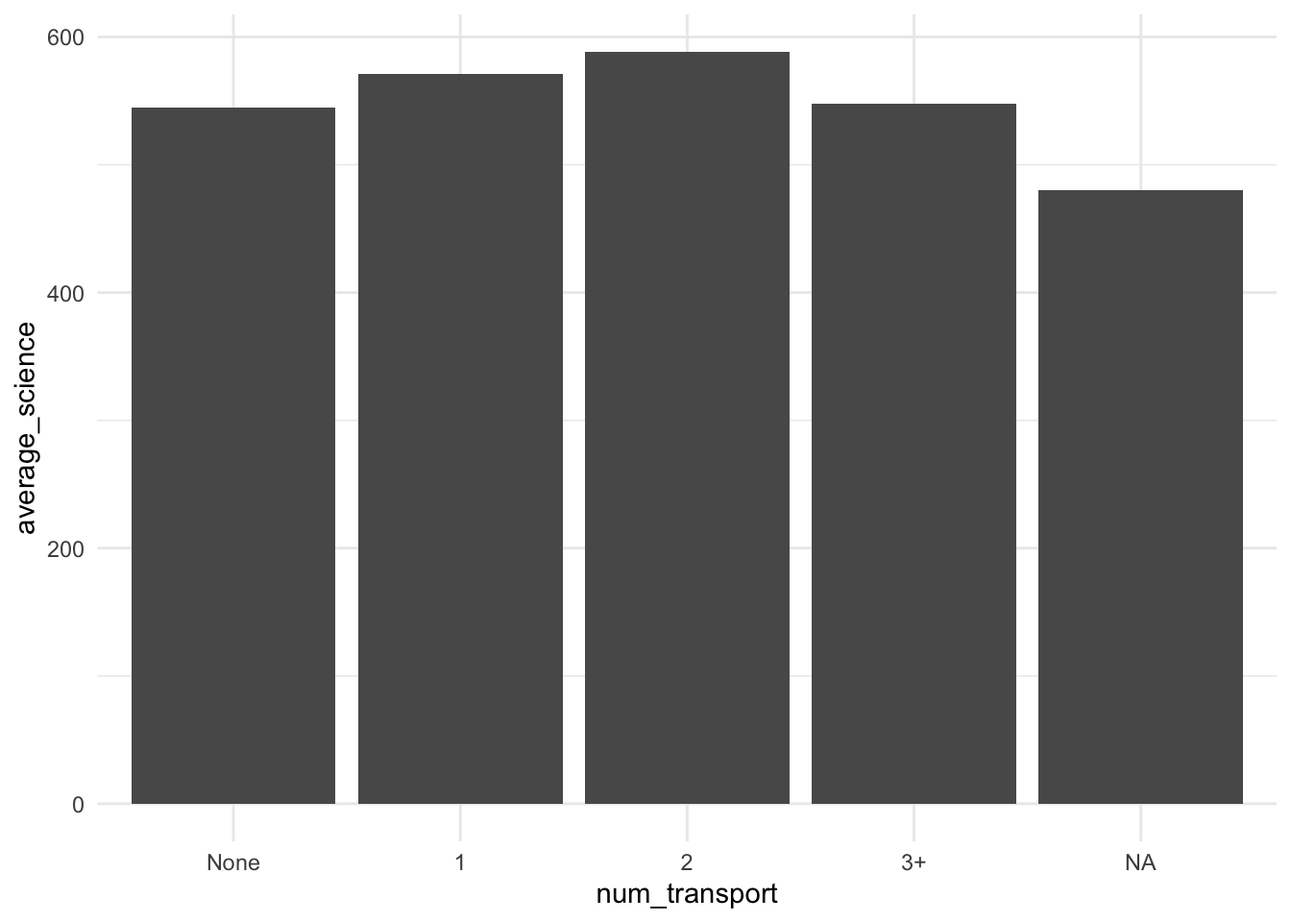
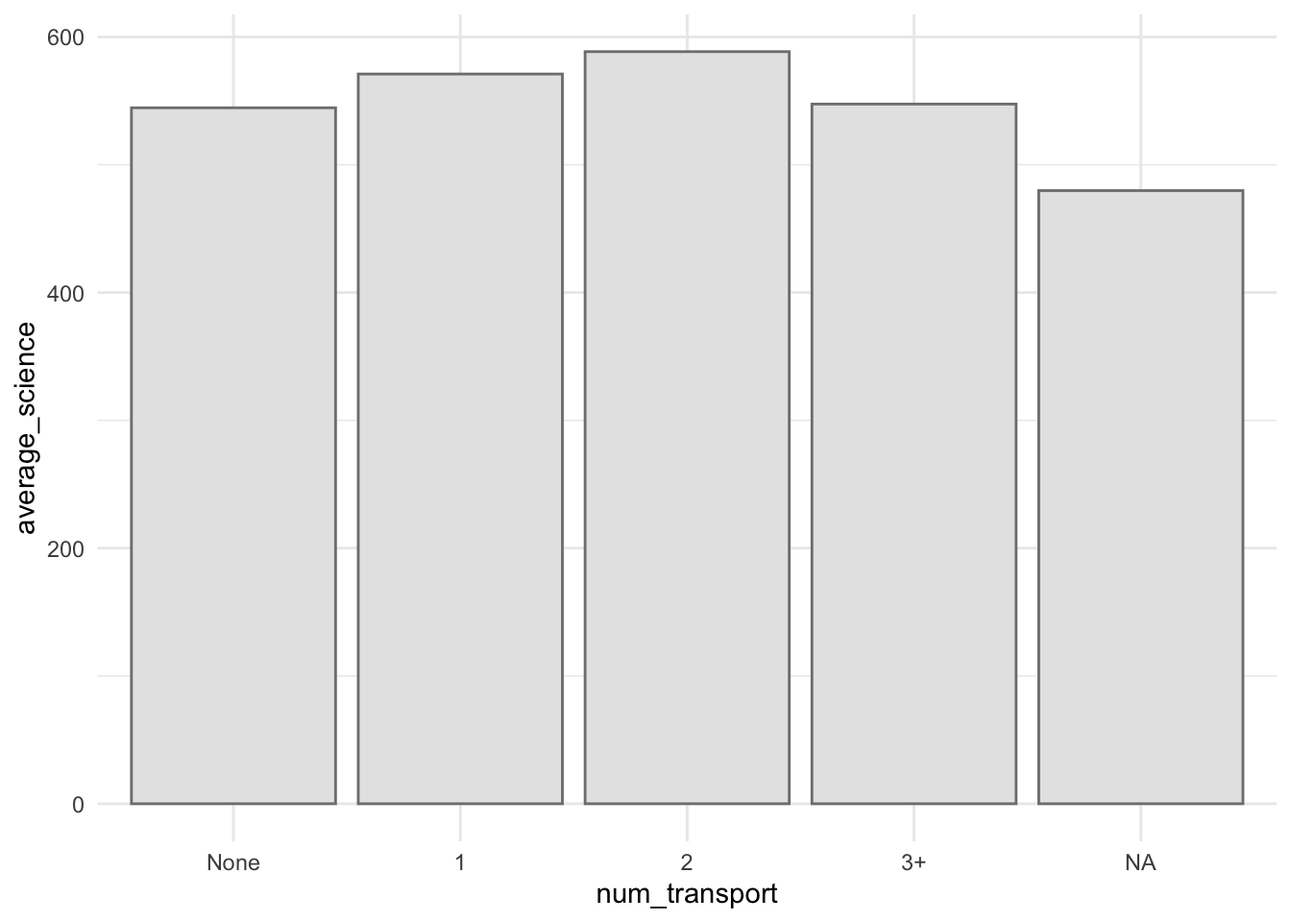
Take home Ex 1 Commit

diff --git a/_site/Take-home_Ex/Take-home_Ex1/Take-home_Ex1.html b/_site/Take-home_Ex/Take-home_Ex1/Take-home_Ex1.html
@@ -190,7 +190,7 @@ pre > code.sourceCode > span > a:first-child::before { text-decoration: underlin
   </ul></li>
   <li><a href="#data-preparation" id="toc-data-preparation" class="nav-link" data-scroll-target="#data-preparation">Data Preparation</a>
   <ul class="collapse">
-  <li><a href="#selecting-columns" id="toc-selecting-columns" class="nav-link" data-scroll-target="#selecting-columns">Selecting columns</a></li>
+  <li><a href="#variable-preparations" id="toc-variable-preparations" class="nav-link" data-scroll-target="#variable-preparations">Variable preparations</a></li>
   <li><a href="#overview" id="toc-overview" class="nav-link" data-scroll-target="#overview">Overview</a></li>
   </ul></li>
   <li><a href="#exploratory-data-analysis-eda" id="toc-exploratory-data-analysis-eda" class="nav-link" data-scroll-target="#exploratory-data-analysis-eda">Exploratory Data Analysis (EDA)</a>
@@ -280,8 +280,14 @@ pre > code.sourceCode > span > a:first-child::before { text-decoration: underlin
 </section>
 <section id="data-preparation" class="level2">
 <h2 class="anchored" data-anchor-id="data-preparation">Data Preparation</h2>
-<section id="selecting-columns" class="level3">
-<h3 class="anchored" data-anchor-id="selecting-columns">Selecting columns</h3>
+<section id="variable-preparations" class="level3">
+<h3 class="anchored" data-anchor-id="variable-preparations">Variable preparations</h3>
+<ul>
+<li><p>filtering the columns that will be used for further analysis</p></li>
+<li><p>rename the columns to a more understandable names</p></li>
+<li><p>recode the answers of questions to a more descriptive measures</p></li>
+<li><p>change the columns data type</p></li>
+</ul>
 <div class="cell">
 <div class="sourceCode cell-code" id="cb6"><pre class="sourceCode r code-with-copy"><code class="sourceCode r"><span id="cb6-1"><a href="#cb6-1" aria-hidden="true" tabindex="-1"></a>stu_qqq <span class="ot">&lt;-</span> stu_qqq_SG <span class="sc">%&gt;%</span></span>
 <span id="cb6-2"><a href="#cb6-2" aria-hidden="true" tabindex="-1"></a>  <span class="fu">select</span>(CNTSCHID,ST004D01T,PV1MATH,PV1SCIE,PV1READ,ST255Q01JA,ST251Q01JA,ST253Q01JA) <span class="sc">%&gt;%</span></span>
@@ -292,7 +298,7 @@ pre > code.sourceCode > span > a:first-child::before { text-decoration: underlin
 <span id="cb6-7"><a href="#cb6-7" aria-hidden="true" tabindex="-1"></a>           <span class="at">read =</span> <span class="st">"PV1READ"</span>,</span>
 <span id="cb6-8"><a href="#cb6-8" aria-hidden="true" tabindex="-1"></a>           <span class="at">num_book =</span> <span class="st">"ST255Q01JA"</span>,</span>
 <span id="cb6-9"><a href="#cb6-9" aria-hidden="true" tabindex="-1"></a>           <span class="at">num_transport =</span> <span class="st">"ST251Q01JA"</span>,</span>
-<span id="cb6-10"><a href="#cb6-10" aria-hidden="true" tabindex="-1"></a>           <span class="at">num_digital_devices =</span> ST253Q01JA)) <span class="sc">%&gt;%</span></span>
+<span id="cb6-10"><a href="#cb6-10" aria-hidden="true" tabindex="-1"></a>           <span class="at">num_digital_devices =</span> <span class="st">"ST253Q01JA"</span>)) <span class="sc">%&gt;%</span></span>
 <span id="cb6-11"><a href="#cb6-11" aria-hidden="true" tabindex="-1"></a>  <span class="fu">mutate</span>(<span class="at">gender =</span> <span class="fu">recode</span>(gender, </span>
 <span id="cb6-12"><a href="#cb6-12" aria-hidden="true" tabindex="-1"></a>                         <span class="st">"1"</span> <span class="ot">=</span> <span class="st">"Female"</span>, </span>
 <span id="cb6-13"><a href="#cb6-13" aria-hidden="true" tabindex="-1"></a>                         <span class="st">"2"</span> <span class="ot">=</span> <span class="st">"Male"</span>)) <span class="sc">%&gt;%</span></span>
@@ -351,21 +357,27 @@ $ num_digital_devices &lt;fct&gt; 6-10, 10+, 6-10, 5, 6-10, 6-10, 10+, 10+, 10+,
 </section>
 <section id="exploratory-data-analysis-eda" class="level2">
 <h2 class="anchored" data-anchor-id="exploratory-data-analysis-eda">Exploratory Data Analysis (EDA)</h2>
+<p>In this section 5 analysis will be performed to get insights and uncover truth of factors for singapore student perfomances.</p>
 <section id="gender" class="level3">
 <h3 class="anchored" data-anchor-id="gender">1. Gender</h3>
+<p>the first factor that we are going to look into is gender.</p>
 <div class="cell">
 <div class="sourceCode cell-code" id="cb9"><pre class="sourceCode r code-with-copy"><code class="sourceCode r"><span id="cb9-1"><a href="#cb9-1" aria-hidden="true" tabindex="-1"></a><span class="fu">ggplot</span>(<span class="at">data =</span> stu_qqq,</span>
 <span id="cb9-2"><a href="#cb9-2" aria-hidden="true" tabindex="-1"></a>       <span class="fu">aes</span>(<span class="at">x =</span> gender)) <span class="sc">+</span></span>
-<span id="cb9-3"><a href="#cb9-3" aria-hidden="true" tabindex="-1"></a>  <span class="fu">geom_bar</span>(<span class="at">width =</span> <span class="fl">0.5</span>)<span class="sc">+</span></span>
-<span id="cb9-4"><a href="#cb9-4" aria-hidden="true" tabindex="-1"></a>  <span class="fu">theme_minimal</span>()</span></code><button title="Copy to Clipboard" class="code-copy-button"><i class="bi"></i></button></pre></div>
+<span id="cb9-3"><a href="#cb9-3" aria-hidden="true" tabindex="-1"></a>  <span class="fu">geom_bar</span>(<span class="at">width =</span> <span class="fl">0.5</span>,</span>
+<span id="cb9-4"><a href="#cb9-4" aria-hidden="true" tabindex="-1"></a>           <span class="at">color =</span> <span class="st">"grey50"</span>,</span>
+<span id="cb9-5"><a href="#cb9-5" aria-hidden="true" tabindex="-1"></a>           <span class="at">fill =</span> <span class="st">"grey90"</span>)<span class="sc">+</span></span>
+<span id="cb9-6"><a href="#cb9-6" aria-hidden="true" tabindex="-1"></a>  <span class="fu">theme_minimal</span>()</span></code><button title="Copy to Clipboard" class="code-copy-button"><i class="bi"></i></button></pre></div>
 <div class="cell-output-display">
 <p><img src="Take-home_Ex1_files/figure-html/unnamed-chunk-8-1.png" class="img-fluid" width="672"></p>
 </div>
 </div>
+<p>from the distribution graph above can be seen that the questionnaire have similar number of male and female student.</p>
 <div class="tabset-margin-container"></div><div class="panel-tabset">
 <ul class="nav nav-tabs" role="tablist"><li class="nav-item" role="presentation"><a class="nav-link active" id="tabset-1-1-tab" data-bs-toggle="tab" data-bs-target="#tabset-1-1" role="tab" aria-controls="tabset-1-1" aria-selected="true">Math</a></li><li class="nav-item" role="presentation"><a class="nav-link" id="tabset-1-2-tab" data-bs-toggle="tab" data-bs-target="#tabset-1-2" role="tab" aria-controls="tabset-1-2" aria-selected="false">Science</a></li><li class="nav-item" role="presentation"><a class="nav-link" id="tabset-1-3-tab" data-bs-toggle="tab" data-bs-target="#tabset-1-3" role="tab" aria-controls="tabset-1-3" aria-selected="false">Reading</a></li></ul>
 <div class="tab-content">
 <div id="tabset-1-1" class="tab-pane active" role="tabpanel" aria-labelledby="tabset-1-1-tab">
+<p>from the graph below, can be seen that there are <strong>VERY SMALL</strong> differences between male and female science scores with male have a <strong>SLIGHTLY HIGHER</strong> average and median score</p>
 <div class="cell">
 <details>
 <summary>Show the code</summary>
@@ -413,6 +425,7 @@ $ num_digital_devices &lt;fct&gt; 6-10, 10+, 6-10, 5, 6-10, 6-10, 10+, 10+, 10+,
 </div>
 </div>
 <div id="tabset-1-2" class="tab-pane" role="tabpanel" aria-labelledby="tabset-1-2-tab">
+<p>from the graph below, can be seen that there are <strong>VERY SMALL</strong> differences between male and female science scores with male have a <strong>SLIGHTLY HIGHER</strong> average and median score</p>
 <div class="cell">
 <details>
 <summary>Show the code</summary>
@@ -460,6 +473,7 @@ $ num_digital_devices &lt;fct&gt; 6-10, 10+, 6-10, 5, 6-10, 6-10, 10+, 10+, 10+,
 </div>
 </div>
 <div id="tabset-1-3" class="tab-pane" role="tabpanel" aria-labelledby="tabset-1-3-tab">
+<p>from the graph below, can be seen that there are <strong>VERY SMALL</strong> differences between male and female reading scores with male have a <strong>SLIGHTLY LOWER</strong> average and median score</p>
 <div class="cell">
 <details>
 <summary>Show the code</summary>
@@ -508,6 +522,7 @@ $ num_digital_devices &lt;fct&gt; 6-10, 10+, 6-10, 5, 6-10, 6-10, 10+, 10+, 10+,
 </div>
 </div>
 </div>
+<p>Overall, can be concluded that student’s performances are <strong>EQUAL</strong> no matter the gender is.</p>
 </section>
 <section id="school" class="level3">
 <h3 class="anchored" data-anchor-id="school">2. School</h3>
@@ -536,12 +551,12 @@ $ num_digital_devices &lt;fct&gt; 6-10, 10+, 6-10, 5, 6-10, 6-10, 10+, 10+, 10+,
 <div class="sourceCode cell-code" id="cb16"><pre class="sourceCode r code-with-copy"><code class="sourceCode r"><span id="cb16-1"><a href="#cb16-1" aria-hidden="true" tabindex="-1"></a>p1 <span class="ot">&lt;-</span> <span class="fu">ggplot</span>(<span class="at">data =</span> stu_qqq_sch,</span>
 <span id="cb16-2"><a href="#cb16-2" aria-hidden="true" tabindex="-1"></a>       <span class="fu">aes</span>(<span class="at">y =</span> average_math_diff)) <span class="sc">+</span></span>
 <span id="cb16-3"><a href="#cb16-3" aria-hidden="true" tabindex="-1"></a>  <span class="fu">geom_boxplot</span>(<span class="at">width =</span> <span class="fl">0.1</span>) <span class="sc">+</span></span>
-<span id="cb16-4"><a href="#cb16-4" aria-hidden="true" tabindex="-1"></a>  <span class="fu">stat_summary</span>(<span class="fu">aes</span>(<span class="at">x =</span> <span class="dv">0</span>),</span>
-<span id="cb16-5"><a href="#cb16-5" aria-hidden="true" tabindex="-1"></a>               <span class="at">geom =</span> <span class="st">"point"</span>,       </span>
-<span id="cb16-6"><a href="#cb16-6" aria-hidden="true" tabindex="-1"></a>               <span class="at">fun.y =</span><span class="st">"mean"</span>,         </span>
-<span id="cb16-7"><a href="#cb16-7" aria-hidden="true" tabindex="-1"></a>               <span class="at">colour =</span><span class="st">"red"</span>, </span>
-<span id="cb16-8"><a href="#cb16-8" aria-hidden="true" tabindex="-1"></a>               <span class="at">size=</span><span class="dv">1</span>) <span class="sc">+</span></span>
-<span id="cb16-9"><a href="#cb16-9" aria-hidden="true" tabindex="-1"></a>  <span class="fu">xlim</span>(<span class="fu">c</span>(<span class="sc">-</span><span class="fl">0.5</span>,<span class="fl">0.5</span>)) <span class="sc">+</span></span>
+<span id="cb16-4"><a href="#cb16-4" aria-hidden="true" tabindex="-1"></a>  <span class="fu">stat_boxplot</span>(<span class="at">geom =</span> <span class="st">"errorbar"</span>, <span class="at">width =</span> <span class="fl">0.05</span>) <span class="sc">+</span></span>
+<span id="cb16-5"><a href="#cb16-5" aria-hidden="true" tabindex="-1"></a>  <span class="fu">stat_summary</span>(<span class="fu">aes</span>(<span class="at">x =</span> <span class="dv">0</span>),</span>
+<span id="cb16-6"><a href="#cb16-6" aria-hidden="true" tabindex="-1"></a>               <span class="at">geom =</span> <span class="st">"point"</span>,       </span>
+<span id="cb16-7"><a href="#cb16-7" aria-hidden="true" tabindex="-1"></a>               <span class="at">fun.y =</span><span class="st">"mean"</span>,         </span>
+<span id="cb16-8"><a href="#cb16-8" aria-hidden="true" tabindex="-1"></a>               <span class="at">colour =</span><span class="st">"red"</span>, </span>
+<span id="cb16-9"><a href="#cb16-9" aria-hidden="true" tabindex="-1"></a>               <span class="at">size=</span><span class="dv">1</span>) <span class="sc">+</span></span>
 <span id="cb16-10"><a href="#cb16-10" aria-hidden="true" tabindex="-1"></a>  <span class="fu">ylim</span>(<span class="fu">c</span>(<span class="dv">0</span>,<span class="dv">220</span>)) <span class="sc">+</span></span>
 <span id="cb16-11"><a href="#cb16-11" aria-hidden="true" tabindex="-1"></a>  <span class="fu">scale_x_continuous</span>(<span class="cn">NULL</span>, <span class="at">breaks =</span> <span class="cn">NULL</span>) <span class="sc">+</span></span>
 <span id="cb16-12"><a href="#cb16-12" aria-hidden="true" tabindex="-1"></a>  <span class="fu">theme_minimal</span>()</span>
@@ -549,12 +564,12 @@ $ num_digital_devices &lt;fct&gt; 6-10, 10+, 6-10, 5, 6-10, 6-10, 10+, 10+, 10+,
 <span id="cb16-14"><a href="#cb16-14" aria-hidden="true" tabindex="-1"></a>p2 <span class="ot">&lt;-</span> <span class="fu">ggplot</span>(<span class="at">data =</span> stu_qqq_sch,</span>
 <span id="cb16-15"><a href="#cb16-15" aria-hidden="true" tabindex="-1"></a>       <span class="fu">aes</span>(<span class="at">y =</span> average_science_diff)) <span class="sc">+</span></span>
 <span id="cb16-16"><a href="#cb16-16" aria-hidden="true" tabindex="-1"></a>  <span class="fu">geom_boxplot</span>(<span class="at">width =</span> <span class="fl">0.1</span>) <span class="sc">+</span></span>
-<span id="cb16-17"><a href="#cb16-17" aria-hidden="true" tabindex="-1"></a>  <span class="fu">stat_summary</span>(<span class="fu">aes</span>(<span class="at">x =</span> <span class="dv">0</span>),</span>
-<span id="cb16-18"><a href="#cb16-18" aria-hidden="true" tabindex="-1"></a>               <span class="at">geom =</span> <span class="st">"point"</span>,       </span>
-<span id="cb16-19"><a href="#cb16-19" aria-hidden="true" tabindex="-1"></a>               <span class="at">fun.y =</span><span class="st">"mean"</span>,         </span>
-<span id="cb16-20"><a href="#cb16-20" aria-hidden="true" tabindex="-1"></a>               <span class="at">colour =</span><span class="st">"red"</span>, </span>
-<span id="cb16-21"><a href="#cb16-21" aria-hidden="true" tabindex="-1"></a>               <span class="at">size=</span><span class="dv">1</span>) <span class="sc">+</span></span>
-<span id="cb16-22"><a href="#cb16-22" aria-hidden="true" tabindex="-1"></a>  <span class="fu">xlim</span>(<span class="fu">c</span>(<span class="sc">-</span><span class="fl">0.5</span>,<span class="fl">0.5</span>)) <span class="sc">+</span></span>
+<span id="cb16-17"><a href="#cb16-17" aria-hidden="true" tabindex="-1"></a>  <span class="fu">stat_boxplot</span>(<span class="at">geom =</span> <span class="st">"errorbar"</span>, <span class="at">width =</span> <span class="fl">0.05</span>) <span class="sc">+</span></span>
+<span id="cb16-18"><a href="#cb16-18" aria-hidden="true" tabindex="-1"></a>  <span class="fu">stat_summary</span>(<span class="fu">aes</span>(<span class="at">x =</span> <span class="dv">0</span>),</span>
+<span id="cb16-19"><a href="#cb16-19" aria-hidden="true" tabindex="-1"></a>               <span class="at">geom =</span> <span class="st">"point"</span>,       </span>
+<span id="cb16-20"><a href="#cb16-20" aria-hidden="true" tabindex="-1"></a>               <span class="at">fun.y =</span><span class="st">"mean"</span>,         </span>
+<span id="cb16-21"><a href="#cb16-21" aria-hidden="true" tabindex="-1"></a>               <span class="at">colour =</span><span class="st">"red"</span>, </span>
+<span id="cb16-22"><a href="#cb16-22" aria-hidden="true" tabindex="-1"></a>               <span class="at">size=</span><span class="dv">1</span>) <span class="sc">+</span></span>
 <span id="cb16-23"><a href="#cb16-23" aria-hidden="true" tabindex="-1"></a>  <span class="fu">ylim</span>(<span class="fu">c</span>(<span class="dv">0</span>,<span class="dv">220</span>)) <span class="sc">+</span></span>
 <span id="cb16-24"><a href="#cb16-24" aria-hidden="true" tabindex="-1"></a>  <span class="fu">scale_x_continuous</span>(<span class="cn">NULL</span>, <span class="at">breaks =</span> <span class="cn">NULL</span>) <span class="sc">+</span></span>
 <span id="cb16-25"><a href="#cb16-25" aria-hidden="true" tabindex="-1"></a>  <span class="fu">theme_minimal</span>()</span>
@@ -562,12 +577,12 @@ $ num_digital_devices &lt;fct&gt; 6-10, 10+, 6-10, 5, 6-10, 6-10, 10+, 10+, 10+,
 <span id="cb16-27"><a href="#cb16-27" aria-hidden="true" tabindex="-1"></a>p3 <span class="ot">&lt;-</span> <span class="fu">ggplot</span>(<span class="at">data =</span> stu_qqq_sch,</span>
 <span id="cb16-28"><a href="#cb16-28" aria-hidden="true" tabindex="-1"></a>       <span class="fu">aes</span>(<span class="at">y =</span> average_read_diff)) <span class="sc">+</span></span>
 <span id="cb16-29"><a href="#cb16-29" aria-hidden="true" tabindex="-1"></a>  <span class="fu">geom_boxplot</span>(<span class="at">width =</span> <span class="fl">0.1</span>) <span class="sc">+</span></span>
-<span id="cb16-30"><a href="#cb16-30" aria-hidden="true" tabindex="-1"></a>  <span class="fu">stat_summary</span>(<span class="fu">aes</span>(<span class="at">x =</span> <span class="dv">0</span>),</span>
-<span id="cb16-31"><a href="#cb16-31" aria-hidden="true" tabindex="-1"></a>               <span class="at">geom =</span> <span class="st">"point"</span>,       </span>
-<span id="cb16-32"><a href="#cb16-32" aria-hidden="true" tabindex="-1"></a>               <span class="at">fun.y =</span><span class="st">"mean"</span>,         </span>
-<span id="cb16-33"><a href="#cb16-33" aria-hidden="true" tabindex="-1"></a>               <span class="at">colour =</span><span class="st">"red"</span>, </span>
-<span id="cb16-34"><a href="#cb16-34" aria-hidden="true" tabindex="-1"></a>               <span class="at">size=</span><span class="dv">1</span>) <span class="sc">+</span></span>
-<span id="cb16-35"><a href="#cb16-35" aria-hidden="true" tabindex="-1"></a>  <span class="fu">xlim</span>(<span class="fu">c</span>(<span class="sc">-</span><span class="fl">0.5</span>,<span class="fl">0.5</span>)) <span class="sc">+</span></span>
+<span id="cb16-30"><a href="#cb16-30" aria-hidden="true" tabindex="-1"></a>  <span class="fu">stat_boxplot</span>(<span class="at">geom =</span> <span class="st">"errorbar"</span>, <span class="at">width =</span> <span class="fl">0.05</span>) <span class="sc">+</span></span>
+<span id="cb16-31"><a href="#cb16-31" aria-hidden="true" tabindex="-1"></a>  <span class="fu">stat_summary</span>(<span class="fu">aes</span>(<span class="at">x =</span> <span class="dv">0</span>),</span>
+<span id="cb16-32"><a href="#cb16-32" aria-hidden="true" tabindex="-1"></a>               <span class="at">geom =</span> <span class="st">"point"</span>,       </span>
+<span id="cb16-33"><a href="#cb16-33" aria-hidden="true" tabindex="-1"></a>               <span class="at">fun.y =</span><span class="st">"mean"</span>,         </span>
+<span id="cb16-34"><a href="#cb16-34" aria-hidden="true" tabindex="-1"></a>               <span class="at">colour =</span><span class="st">"red"</span>, </span>
+<span id="cb16-35"><a href="#cb16-35" aria-hidden="true" tabindex="-1"></a>               <span class="at">size=</span><span class="dv">1</span>) <span class="sc">+</span></span>
 <span id="cb16-36"><a href="#cb16-36" aria-hidden="true" tabindex="-1"></a>  <span class="fu">ylim</span>(<span class="fu">c</span>(<span class="dv">0</span>,<span class="dv">220</span>)) <span class="sc">+</span></span>
 <span id="cb16-37"><a href="#cb16-37" aria-hidden="true" tabindex="-1"></a>  <span class="fu">scale_x_continuous</span>(<span class="cn">NULL</span>, <span class="at">breaks =</span> <span class="cn">NULL</span>) <span class="sc">+</span></span>
 <span id="cb16-38"><a href="#cb16-38" aria-hidden="true" tabindex="-1"></a>  <span class="fu">theme_minimal</span>()</span>
@@ -586,8 +601,9 @@ $ num_digital_devices &lt;fct&gt; 6-10, 10+, 6-10, 5, 6-10, 6-10, 10+, 10+, 10+,
 <summary>Show the code</summary>
 <div class="sourceCode cell-code" id="cb17"><pre class="sourceCode r code-with-copy"><code class="sourceCode r"><span id="cb17-1"><a href="#cb17-1" aria-hidden="true" tabindex="-1"></a><span class="fu">ggplot</span>(<span class="at">data =</span> stu_qqq,</span>
 <span id="cb17-2"><a href="#cb17-2" aria-hidden="true" tabindex="-1"></a>       <span class="fu">aes</span>(<span class="at">x =</span> num_book)) <span class="sc">+</span></span>
-<span id="cb17-3"><a href="#cb17-3" aria-hidden="true" tabindex="-1"></a>  <span class="fu">geom_bar</span>()<span class="sc">+</span></span>
-<span id="cb17-4"><a href="#cb17-4" aria-hidden="true" tabindex="-1"></a>  <span class="fu">theme_minimal</span>()</span></code><button title="Copy to Clipboard" class="code-copy-button"><i class="bi"></i></button></pre></div>
+<span id="cb17-3"><a href="#cb17-3" aria-hidden="true" tabindex="-1"></a>  <span class="fu">geom_bar</span>(<span class="at">color =</span> <span class="st">"grey50"</span>,</span>
+<span id="cb17-4"><a href="#cb17-4" aria-hidden="true" tabindex="-1"></a>           <span class="at">fill =</span> <span class="st">"grey90"</span>)<span class="sc">+</span></span>
+<span id="cb17-5"><a href="#cb17-5" aria-hidden="true" tabindex="-1"></a>  <span class="fu">theme_minimal</span>()</span></code><button title="Copy to Clipboard" class="code-copy-button"><i class="bi"></i></button></pre></div>
 </details>
 <div class="cell-output-display">
 <p><img src="Take-home_Ex1_files/figure-html/unnamed-chunk-15-1.png" class="img-fluid" width="672"></p>
@@ -606,7 +622,7 @@ $ num_digital_devices &lt;fct&gt; 6-10, 10+, 6-10, 5, 6-10, 6-10, 10+, 10+, 10+,
 </details>
 </div>
 <div class="tabset-margin-container"></div><div class="panel-tabset">
-<ul class="nav nav-tabs" role="tablist"><li class="nav-item" role="presentation"><a class="nav-link active" id="tabset-2-1-tab" data-bs-toggle="tab" data-bs-target="#tabset-2-1" role="tab" aria-controls="tabset-2-1" aria-selected="true">Math</a></li><li class="nav-item" role="presentation"><a class="nav-link" id="tabset-2-2-tab" data-bs-toggle="tab" data-bs-target="#tabset-2-2" role="tab" aria-controls="tabset-2-2" aria-selected="false">Science</a></li><li class="nav-item" role="presentation"><a class="nav-link" id="tabset-2-3-tab" data-bs-toggle="tab" data-bs-target="#tabset-2-3" role="tab" aria-controls="tabset-2-3" aria-selected="false">Read</a></li></ul>
+<ul class="nav nav-tabs" role="tablist"><li class="nav-item" role="presentation"><a class="nav-link active" id="tabset-2-1-tab" data-bs-toggle="tab" data-bs-target="#tabset-2-1" role="tab" aria-controls="tabset-2-1" aria-selected="true">Math</a></li><li class="nav-item" role="presentation"><a class="nav-link" id="tabset-2-2-tab" data-bs-toggle="tab" data-bs-target="#tabset-2-2" role="tab" aria-controls="tabset-2-2" aria-selected="false">Science</a></li><li class="nav-item" role="presentation"><a class="nav-link" id="tabset-2-3-tab" data-bs-toggle="tab" data-bs-target="#tabset-2-3" role="tab" aria-controls="tabset-2-3" aria-selected="false">Reading</a></li></ul>
 <div class="tab-content">
 <div id="tabset-2-1" class="tab-pane active" role="tabpanel" aria-labelledby="tabset-2-1-tab">
 <div class="cell">
@@ -614,8 +630,9 @@ $ num_digital_devices &lt;fct&gt; 6-10, 10+, 6-10, 5, 6-10, 6-10, 10+, 10+, 10+,
 <summary>Show the code</summary>
 <div class="sourceCode cell-code" id="cb19"><pre class="sourceCode r code-with-copy"><code class="sourceCode r"><span id="cb19-1"><a href="#cb19-1" aria-hidden="true" tabindex="-1"></a><span class="fu">ggplot</span>(<span class="at">data =</span> stu_qqq_book,</span>
 <span id="cb19-2"><a href="#cb19-2" aria-hidden="true" tabindex="-1"></a>       <span class="fu">aes</span>(<span class="at">x=</span>num_book, <span class="at">y=</span>average_math)) <span class="sc">+</span></span>
-<span id="cb19-3"><a href="#cb19-3" aria-hidden="true" tabindex="-1"></a>  <span class="fu">geom_col</span>() <span class="sc">+</span></span>
-<span id="cb19-4"><a href="#cb19-4" aria-hidden="true" tabindex="-1"></a>  <span class="fu">theme_minimal</span>()</span></code><button title="Copy to Clipboard" class="code-copy-button"><i class="bi"></i></button></pre></div>
+<span id="cb19-3"><a href="#cb19-3" aria-hidden="true" tabindex="-1"></a>  <span class="fu">geom_col</span>(<span class="at">color =</span> <span class="st">"grey50"</span>,</span>
+<span id="cb19-4"><a href="#cb19-4" aria-hidden="true" tabindex="-1"></a>           <span class="at">fill =</span> <span class="st">"grey90"</span>) <span class="sc">+</span></span>
+<span id="cb19-5"><a href="#cb19-5" aria-hidden="true" tabindex="-1"></a>  <span class="fu">theme_minimal</span>()</span></code><button title="Copy to Clipboard" class="code-copy-button"><i class="bi"></i></button></pre></div>
 </details>
 <div class="cell-output-display">
 <p><img src="Take-home_Ex1_files/figure-html/unnamed-chunk-17-1.png" class="img-fluid" width="672"></p>
@@ -628,8 +645,9 @@ $ num_digital_devices &lt;fct&gt; 6-10, 10+, 6-10, 5, 6-10, 6-10, 10+, 10+, 10+,
 <summary>Show the code</summary>
 <div class="sourceCode cell-code" id="cb20"><pre class="sourceCode r code-with-copy"><code class="sourceCode r"><span id="cb20-1"><a href="#cb20-1" aria-hidden="true" tabindex="-1"></a><span class="fu">ggplot</span>(<span class="at">data =</span> stu_qqq_book,</span>
 <span id="cb20-2"><a href="#cb20-2" aria-hidden="true" tabindex="-1"></a>       <span class="fu">aes</span>(<span class="at">x=</span>num_book, <span class="at">y=</span>average_science)) <span class="sc">+</span></span>
-<span id="cb20-3"><a href="#cb20-3" aria-hidden="true" tabindex="-1"></a>  <span class="fu">geom_col</span>() <span class="sc">+</span></span>
-<span id="cb20-4"><a href="#cb20-4" aria-hidden="true" tabindex="-1"></a>  <span class="fu">theme_minimal</span>()</span></code><button title="Copy to Clipboard" class="code-copy-button"><i class="bi"></i></button></pre></div>
+<span id="cb20-3"><a href="#cb20-3" aria-hidden="true" tabindex="-1"></a>  <span class="fu">geom_col</span>(<span class="at">color =</span> <span class="st">"grey50"</span>,</span>
+<span id="cb20-4"><a href="#cb20-4" aria-hidden="true" tabindex="-1"></a>           <span class="at">fill =</span> <span class="st">"grey90"</span>) <span class="sc">+</span></span>
+<span id="cb20-5"><a href="#cb20-5" aria-hidden="true" tabindex="-1"></a>  <span class="fu">theme_minimal</span>()</span></code><button title="Copy to Clipboard" class="code-copy-button"><i class="bi"></i></button></pre></div>
 </details>
 <div class="cell-output-display">
 <p><img src="Take-home_Ex1_files/figure-html/unnamed-chunk-18-1.png" class="img-fluid" width="672"></p>
@@ -642,8 +660,9 @@ $ num_digital_devices &lt;fct&gt; 6-10, 10+, 6-10, 5, 6-10, 6-10, 10+, 10+, 10+,
 <summary>Show the code</summary>
 <div class="sourceCode cell-code" id="cb21"><pre class="sourceCode r code-with-copy"><code class="sourceCode r"><span id="cb21-1"><a href="#cb21-1" aria-hidden="true" tabindex="-1"></a><span class="fu">ggplot</span>(<span class="at">data =</span> stu_qqq_book,</span>
 <span id="cb21-2"><a href="#cb21-2" aria-hidden="true" tabindex="-1"></a>       <span class="fu">aes</span>(<span class="at">x=</span>num_book, <span class="at">y=</span>average_read)) <span class="sc">+</span></span>
-<span id="cb21-3"><a href="#cb21-3" aria-hidden="true" tabindex="-1"></a>  <span class="fu">geom_col</span>() <span class="sc">+</span></span>
-<span id="cb21-4"><a href="#cb21-4" aria-hidden="true" tabindex="-1"></a>  <span class="fu">theme_minimal</span>()</span></code><button title="Copy to Clipboard" class="code-copy-button"><i class="bi"></i></button></pre></div>
+<span id="cb21-3"><a href="#cb21-3" aria-hidden="true" tabindex="-1"></a>  <span class="fu">geom_col</span>(<span class="at">color =</span> <span class="st">"grey50"</span>,</span>
+<span id="cb21-4"><a href="#cb21-4" aria-hidden="true" tabindex="-1"></a>           <span class="at">fill =</span> <span class="st">"grey90"</span>) <span class="sc">+</span></span>
+<span id="cb21-5"><a href="#cb21-5" aria-hidden="true" tabindex="-1"></a>  <span class="fu">theme_minimal</span>()</span></code><button title="Copy to Clipboard" class="code-copy-button"><i class="bi"></i></button></pre></div>
 </details>
 <div class="cell-output-display">
 <p><img src="Take-home_Ex1_files/figure-html/unnamed-chunk-19-1.png" class="img-fluid" width="672"></p>
@@ -660,8 +679,9 @@ $ num_digital_devices &lt;fct&gt; 6-10, 10+, 6-10, 5, 6-10, 6-10, 10+, 10+, 10+,
 <summary>Show the code</summary>
 <div class="sourceCode cell-code" id="cb22"><pre class="sourceCode r code-with-copy"><code class="sourceCode r"><span id="cb22-1"><a href="#cb22-1" aria-hidden="true" tabindex="-1"></a><span class="fu">ggplot</span>(<span class="at">data =</span> stu_qqq,</span>
 <span id="cb22-2"><a href="#cb22-2" aria-hidden="true" tabindex="-1"></a>       <span class="fu">aes</span>(<span class="at">x =</span> num_transport)) <span class="sc">+</span></span>
-<span id="cb22-3"><a href="#cb22-3" aria-hidden="true" tabindex="-1"></a>  <span class="fu">geom_bar</span>()<span class="sc">+</span></span>
-<span id="cb22-4"><a href="#cb22-4" aria-hidden="true" tabindex="-1"></a>  <span class="fu">theme_minimal</span>()</span></code><button title="Copy to Clipboard" class="code-copy-button"><i class="bi"></i></button></pre></div>
+<span id="cb22-3"><a href="#cb22-3" aria-hidden="true" tabindex="-1"></a>  <span class="fu">geom_bar</span>(<span class="at">color =</span> <span class="st">"grey50"</span>,</span>
+<span id="cb22-4"><a href="#cb22-4" aria-hidden="true" tabindex="-1"></a>           <span class="at">fill =</span> <span class="st">"grey90"</span>)<span class="sc">+</span></span>
+<span id="cb22-5"><a href="#cb22-5" aria-hidden="true" tabindex="-1"></a>  <span class="fu">theme_minimal</span>()</span></code><button title="Copy to Clipboard" class="code-copy-button"><i class="bi"></i></button></pre></div>
 </details>
 <div class="cell-output-display">
 <p><img src="Take-home_Ex1_files/figure-html/unnamed-chunk-20-1.png" class="img-fluid" width="672"></p>
@@ -680,7 +700,7 @@ $ num_digital_devices &lt;fct&gt; 6-10, 10+, 6-10, 5, 6-10, 6-10, 10+, 10+, 10+,
 </details>
 </div>
 <div class="tabset-margin-container"></div><div class="panel-tabset">
-<ul class="nav nav-tabs" role="tablist"><li class="nav-item" role="presentation"><a class="nav-link active" id="tabset-3-1-tab" data-bs-toggle="tab" data-bs-target="#tabset-3-1" role="tab" aria-controls="tabset-3-1" aria-selected="true">Math</a></li><li class="nav-item" role="presentation"><a class="nav-link" id="tabset-3-2-tab" data-bs-toggle="tab" data-bs-target="#tabset-3-2" role="tab" aria-controls="tabset-3-2" aria-selected="false">Science</a></li><li class="nav-item" role="presentation"><a class="nav-link" id="tabset-3-3-tab" data-bs-toggle="tab" data-bs-target="#tabset-3-3" role="tab" aria-controls="tabset-3-3" aria-selected="false">Read</a></li></ul>
+<ul class="nav nav-tabs" role="tablist"><li class="nav-item" role="presentation"><a class="nav-link active" id="tabset-3-1-tab" data-bs-toggle="tab" data-bs-target="#tabset-3-1" role="tab" aria-controls="tabset-3-1" aria-selected="true">Math</a></li><li class="nav-item" role="presentation"><a class="nav-link" id="tabset-3-2-tab" data-bs-toggle="tab" data-bs-target="#tabset-3-2" role="tab" aria-controls="tabset-3-2" aria-selected="false">Science</a></li><li class="nav-item" role="presentation"><a class="nav-link" id="tabset-3-3-tab" data-bs-toggle="tab" data-bs-target="#tabset-3-3" role="tab" aria-controls="tabset-3-3" aria-selected="false">Reading</a></li></ul>
 <div class="tab-content">
 <div id="tabset-3-1" class="tab-pane active" role="tabpanel" aria-labelledby="tabset-3-1-tab">
 <div class="cell">
@@ -688,8 +708,9 @@ $ num_digital_devices &lt;fct&gt; 6-10, 10+, 6-10, 5, 6-10, 6-10, 10+, 10+, 10+,
 <summary>Show the code</summary>
 <div class="sourceCode cell-code" id="cb24"><pre class="sourceCode r code-with-copy"><code class="sourceCode r"><span id="cb24-1"><a href="#cb24-1" aria-hidden="true" tabindex="-1"></a><span class="fu">ggplot</span>(<span class="at">data =</span> stu_qqq_transport,</span>
 <span id="cb24-2"><a href="#cb24-2" aria-hidden="true" tabindex="-1"></a>       <span class="fu">aes</span>(<span class="at">x=</span>num_transport, <span class="at">y=</span>average_math)) <span class="sc">+</span></span>
-<span id="cb24-3"><a href="#cb24-3" aria-hidden="true" tabindex="-1"></a>  <span class="fu">geom_col</span>() <span class="sc">+</span></span>
-<span id="cb24-4"><a href="#cb24-4" aria-hidden="true" tabindex="-1"></a>  <span class="fu">theme_minimal</span>()</span></code><button title="Copy to Clipboard" class="code-copy-button"><i class="bi"></i></button></pre></div>
+<span id="cb24-3"><a href="#cb24-3" aria-hidden="true" tabindex="-1"></a>  <span class="fu">geom_col</span>(<span class="at">color =</span> <span class="st">"grey50"</span>,</span>
+<span id="cb24-4"><a href="#cb24-4" aria-hidden="true" tabindex="-1"></a>           <span class="at">fill =</span> <span class="st">"grey90"</span>) <span class="sc">+</span></span>
+<span id="cb24-5"><a href="#cb24-5" aria-hidden="true" tabindex="-1"></a>  <span class="fu">theme_minimal</span>()</span></code><button title="Copy to Clipboard" class="code-copy-button"><i class="bi"></i></button></pre></div>
 </details>
 <div class="cell-output-display">
 <p><img src="Take-home_Ex1_files/figure-html/unnamed-chunk-22-1.png" class="img-fluid" width="672"></p>
@@ -702,8 +723,9 @@ $ num_digital_devices &lt;fct&gt; 6-10, 10+, 6-10, 5, 6-10, 6-10, 10+, 10+, 10+,
 <summary>Show the code</summary>
 <div class="sourceCode cell-code" id="cb25"><pre class="sourceCode r code-with-copy"><code class="sourceCode r"><span id="cb25-1"><a href="#cb25-1" aria-hidden="true" tabindex="-1"></a><span class="fu">ggplot</span>(<span class="at">data =</span> stu_qqq_transport,</span>
 <span id="cb25-2"><a href="#cb25-2" aria-hidden="true" tabindex="-1"></a>       <span class="fu">aes</span>(<span class="at">x=</span>num_transport, <span class="at">y=</span>average_science)) <span class="sc">+</span></span>
-<span id="cb25-3"><a href="#cb25-3" aria-hidden="true" tabindex="-1"></a>  <span class="fu">geom_col</span>() <span class="sc">+</span></span>
-<span id="cb25-4"><a href="#cb25-4" aria-hidden="true" tabindex="-1"></a>  <span class="fu">theme_minimal</span>()</span></code><button title="Copy to Clipboard" class="code-copy-button"><i class="bi"></i></button></pre></div>
+<span id="cb25-3"><a href="#cb25-3" aria-hidden="true" tabindex="-1"></a>  <span class="fu">geom_col</span>(<span class="at">color =</span> <span class="st">"grey50"</span>,</span>
+<span id="cb25-4"><a href="#cb25-4" aria-hidden="true" tabindex="-1"></a>           <span class="at">fill =</span> <span class="st">"grey90"</span>) <span class="sc">+</span></span>
+<span id="cb25-5"><a href="#cb25-5" aria-hidden="true" tabindex="-1"></a>  <span class="fu">theme_minimal</span>()</span></code><button title="Copy to Clipboard" class="code-copy-button"><i class="bi"></i></button></pre></div>
 </details>
 <div class="cell-output-display">
 <p><img src="Take-home_Ex1_files/figure-html/unnamed-chunk-23-1.png" class="img-fluid" width="672"></p>
@@ -716,8 +738,9 @@ $ num_digital_devices &lt;fct&gt; 6-10, 10+, 6-10, 5, 6-10, 6-10, 10+, 10+, 10+,
 <summary>Show the code</summary>
 <div class="sourceCode cell-code" id="cb26"><pre class="sourceCode r code-with-copy"><code class="sourceCode r"><span id="cb26-1"><a href="#cb26-1" aria-hidden="true" tabindex="-1"></a><span class="fu">ggplot</span>(<span class="at">data =</span> stu_qqq_transport,</span>
 <span id="cb26-2"><a href="#cb26-2" aria-hidden="true" tabindex="-1"></a>       <span class="fu">aes</span>(<span class="at">x=</span>num_transport, <span class="at">y=</span>average_read)) <span class="sc">+</span></span>
-<span id="cb26-3"><a href="#cb26-3" aria-hidden="true" tabindex="-1"></a>  <span class="fu">geom_col</span>() <span class="sc">+</span></span>
-<span id="cb26-4"><a href="#cb26-4" aria-hidden="true" tabindex="-1"></a>  <span class="fu">theme_minimal</span>()</span></code><button title="Copy to Clipboard" class="code-copy-button"><i class="bi"></i></button></pre></div>
+<span id="cb26-3"><a href="#cb26-3" aria-hidden="true" tabindex="-1"></a>  <span class="fu">geom_col</span>(<span class="at">color =</span> <span class="st">"grey50"</span>,</span>
+<span id="cb26-4"><a href="#cb26-4" aria-hidden="true" tabindex="-1"></a>           <span class="at">fill =</span> <span class="st">"grey90"</span>) <span class="sc">+</span></span>
+<span id="cb26-5"><a href="#cb26-5" aria-hidden="true" tabindex="-1"></a>  <span class="fu">theme_minimal</span>()</span></code><button title="Copy to Clipboard" class="code-copy-button"><i class="bi"></i></button></pre></div>
 </details>
 <div class="cell-output-display">
 <p><img src="Take-home_Ex1_files/figure-html/unnamed-chunk-24-1.png" class="img-fluid" width="672"></p>
@@ -732,8 +755,9 @@ $ num_digital_devices &lt;fct&gt; 6-10, 10+, 6-10, 5, 6-10, 6-10, 10+, 10+, 10+,
 <div class="cell">
 <div class="sourceCode cell-code" id="cb27"><pre class="sourceCode r code-with-copy"><code class="sourceCode r"><span id="cb27-1"><a href="#cb27-1" aria-hidden="true" tabindex="-1"></a><span class="fu">ggplot</span>(<span class="at">data =</span> stu_qqq,</span>
 <span id="cb27-2"><a href="#cb27-2" aria-hidden="true" tabindex="-1"></a>       <span class="fu">aes</span>(<span class="at">x =</span> num_digital_devices)) <span class="sc">+</span></span>
-<span id="cb27-3"><a href="#cb27-3" aria-hidden="true" tabindex="-1"></a>  <span class="fu">geom_bar</span>()<span class="sc">+</span></span>
-<span id="cb27-4"><a href="#cb27-4" aria-hidden="true" tabindex="-1"></a>  <span class="fu">theme_minimal</span>()</span></code><button title="Copy to Clipboard" class="code-copy-button"><i class="bi"></i></button></pre></div>
+<span id="cb27-3"><a href="#cb27-3" aria-hidden="true" tabindex="-1"></a>  <span class="fu">geom_bar</span>(<span class="at">color =</span> <span class="st">"grey50"</span>,</span>
+<span id="cb27-4"><a href="#cb27-4" aria-hidden="true" tabindex="-1"></a>           <span class="at">fill =</span> <span class="st">"grey90"</span>)<span class="sc">+</span></span>
+<span id="cb27-5"><a href="#cb27-5" aria-hidden="true" tabindex="-1"></a>  <span class="fu">theme_minimal</span>()</span></code><button title="Copy to Clipboard" class="code-copy-button"><i class="bi"></i></button></pre></div>
 <div class="cell-output-display">
 <p><img src="Take-home_Ex1_files/figure-html/unnamed-chunk-25-1.png" class="img-fluid" width="672"></p>
 </div>
@@ -751,7 +775,7 @@ $ num_digital_devices &lt;fct&gt; 6-10, 10+, 6-10, 5, 6-10, 6-10, 10+, 10+, 10+,
 </details>
 </div>
 <div class="tabset-margin-container"></div><div class="panel-tabset">
-<ul class="nav nav-tabs" role="tablist"><li class="nav-item" role="presentation"><a class="nav-link active" id="tabset-4-1-tab" data-bs-toggle="tab" data-bs-target="#tabset-4-1" role="tab" aria-controls="tabset-4-1" aria-selected="true">Math</a></li><li class="nav-item" role="presentation"><a class="nav-link" id="tabset-4-2-tab" data-bs-toggle="tab" data-bs-target="#tabset-4-2" role="tab" aria-controls="tabset-4-2" aria-selected="false">Science</a></li><li class="nav-item" role="presentation"><a class="nav-link" id="tabset-4-3-tab" data-bs-toggle="tab" data-bs-target="#tabset-4-3" role="tab" aria-controls="tabset-4-3" aria-selected="false">Read</a></li></ul>
+<ul class="nav nav-tabs" role="tablist"><li class="nav-item" role="presentation"><a class="nav-link active" id="tabset-4-1-tab" data-bs-toggle="tab" data-bs-target="#tabset-4-1" role="tab" aria-controls="tabset-4-1" aria-selected="true">Math</a></li><li class="nav-item" role="presentation"><a class="nav-link" id="tabset-4-2-tab" data-bs-toggle="tab" data-bs-target="#tabset-4-2" role="tab" aria-controls="tabset-4-2" aria-selected="false">Science</a></li><li class="nav-item" role="presentation"><a class="nav-link" id="tabset-4-3-tab" data-bs-toggle="tab" data-bs-target="#tabset-4-3" role="tab" aria-controls="tabset-4-3" aria-selected="false">Reading</a></li></ul>
 <div class="tab-content">
 <div id="tabset-4-1" class="tab-pane active" role="tabpanel" aria-labelledby="tabset-4-1-tab">
 <div class="cell">
@@ -759,8 +783,9 @@ $ num_digital_devices &lt;fct&gt; 6-10, 10+, 6-10, 5, 6-10, 6-10, 10+, 10+, 10+,
 <summary>Show the code</summary>
 <div class="sourceCode cell-code" id="cb29"><pre class="sourceCode r code-with-copy"><code class="sourceCode r"><span id="cb29-1"><a href="#cb29-1" aria-hidden="true" tabindex="-1"></a><span class="fu">ggplot</span>(<span class="at">data =</span> stu_qqq_digital,</span>
 <span id="cb29-2"><a href="#cb29-2" aria-hidden="true" tabindex="-1"></a>       <span class="fu">aes</span>(<span class="at">x=</span>num_digital_devices, <span class="at">y=</span>average_math)) <span class="sc">+</span></span>
-<span id="cb29-3"><a href="#cb29-3" aria-hidden="true" tabindex="-1"></a>  <span class="fu">geom_col</span>() <span class="sc">+</span></span>
-<span id="cb29-4"><a href="#cb29-4" aria-hidden="true" tabindex="-1"></a>  <span class="fu">theme_minimal</span>()</span></code><button title="Copy to Clipboard" class="code-copy-button"><i class="bi"></i></button></pre></div>
+<span id="cb29-3"><a href="#cb29-3" aria-hidden="true" tabindex="-1"></a>  <span class="fu">geom_col</span>(<span class="at">color =</span> <span class="st">"grey50"</span>,</span>
+<span id="cb29-4"><a href="#cb29-4" aria-hidden="true" tabindex="-1"></a>           <span class="at">fill =</span> <span class="st">"grey90"</span>) <span class="sc">+</span></span>
+<span id="cb29-5"><a href="#cb29-5" aria-hidden="true" tabindex="-1"></a>  <span class="fu">theme_minimal</span>()</span></code><button title="Copy to Clipboard" class="code-copy-button"><i class="bi"></i></button></pre></div>
 </details>
 <div class="cell-output-display">
 <p><img src="Take-home_Ex1_files/figure-html/unnamed-chunk-27-1.png" class="img-fluid" width="672"></p>
@@ -773,8 +798,9 @@ $ num_digital_devices &lt;fct&gt; 6-10, 10+, 6-10, 5, 6-10, 6-10, 10+, 10+, 10+,
 <summary>Show the code</summary>
 <div class="sourceCode cell-code" id="cb30"><pre class="sourceCode r code-with-copy"><code class="sourceCode r"><span id="cb30-1"><a href="#cb30-1" aria-hidden="true" tabindex="-1"></a><span class="fu">ggplot</span>(<span class="at">data =</span> stu_qqq_digital,</span>
 <span id="cb30-2"><a href="#cb30-2" aria-hidden="true" tabindex="-1"></a>       <span class="fu">aes</span>(<span class="at">x=</span>num_digital_devices, <span class="at">y=</span>average_science)) <span class="sc">+</span></span>
-<span id="cb30-3"><a href="#cb30-3" aria-hidden="true" tabindex="-1"></a>  <span class="fu">geom_col</span>() <span class="sc">+</span></span>
-<span id="cb30-4"><a href="#cb30-4" aria-hidden="true" tabindex="-1"></a>  <span class="fu">theme_minimal</span>()</span></code><button title="Copy to Clipboard" class="code-copy-button"><i class="bi"></i></button></pre></div>
+<span id="cb30-3"><a href="#cb30-3" aria-hidden="true" tabindex="-1"></a>  <span class="fu">geom_col</span>(<span class="at">color =</span> <span class="st">"grey50"</span>,</span>
+<span id="cb30-4"><a href="#cb30-4" aria-hidden="true" tabindex="-1"></a>           <span class="at">fill =</span> <span class="st">"grey90"</span>) <span class="sc">+</span></span>
+<span id="cb30-5"><a href="#cb30-5" aria-hidden="true" tabindex="-1"></a>  <span class="fu">theme_minimal</span>()</span></code><button title="Copy to Clipboard" class="code-copy-button"><i class="bi"></i></button></pre></div>
 </details>
 <div class="cell-output-display">
 <p><img src="Take-home_Ex1_files/figure-html/unnamed-chunk-28-1.png" class="img-fluid" width="672"></p>
@@ -787,8 +813,9 @@ $ num_digital_devices &lt;fct&gt; 6-10, 10+, 6-10, 5, 6-10, 6-10, 10+, 10+, 10+,
 <summary>Show the code</summary>
 <div class="sourceCode cell-code" id="cb31"><pre class="sourceCode r code-with-copy"><code class="sourceCode r"><span id="cb31-1"><a href="#cb31-1" aria-hidden="true" tabindex="-1"></a><span class="fu">ggplot</span>(<span class="at">data =</span> stu_qqq_digital,</span>
 <span id="cb31-2"><a href="#cb31-2" aria-hidden="true" tabindex="-1"></a>       <span class="fu">aes</span>(<span class="at">x=</span>num_digital_devices, <span class="at">y=</span>average_read)) <span class="sc">+</span></span>
-<span id="cb31-3"><a href="#cb31-3" aria-hidden="true" tabindex="-1"></a>  <span class="fu">geom_col</span>() <span class="sc">+</span></span>
-<span id="cb31-4"><a href="#cb31-4" aria-hidden="true" tabindex="-1"></a>  <span class="fu">theme_minimal</span>()</span></code><button title="Copy to Clipboard" class="code-copy-button"><i class="bi"></i></button></pre></div>
+<span id="cb31-3"><a href="#cb31-3" aria-hidden="true" tabindex="-1"></a>  <span class="fu">geom_col</span>(<span class="at">color =</span> <span class="st">"grey50"</span>,</span>
+<span id="cb31-4"><a href="#cb31-4" aria-hidden="true" tabindex="-1"></a>           <span class="at">fill =</span> <span class="st">"grey90"</span>) <span class="sc">+</span></span>
+<span id="cb31-5"><a href="#cb31-5" aria-hidden="true" tabindex="-1"></a>  <span class="fu">theme_minimal</span>()</span></code><button title="Copy to Clipboard" class="code-copy-button"><i class="bi"></i></button></pre></div>
 </details>
 <div class="cell-output-display">
 <p><img src="Take-home_Ex1_files/figure-html/unnamed-chunk-29-1.png" class="img-fluid" width="672"></p>
